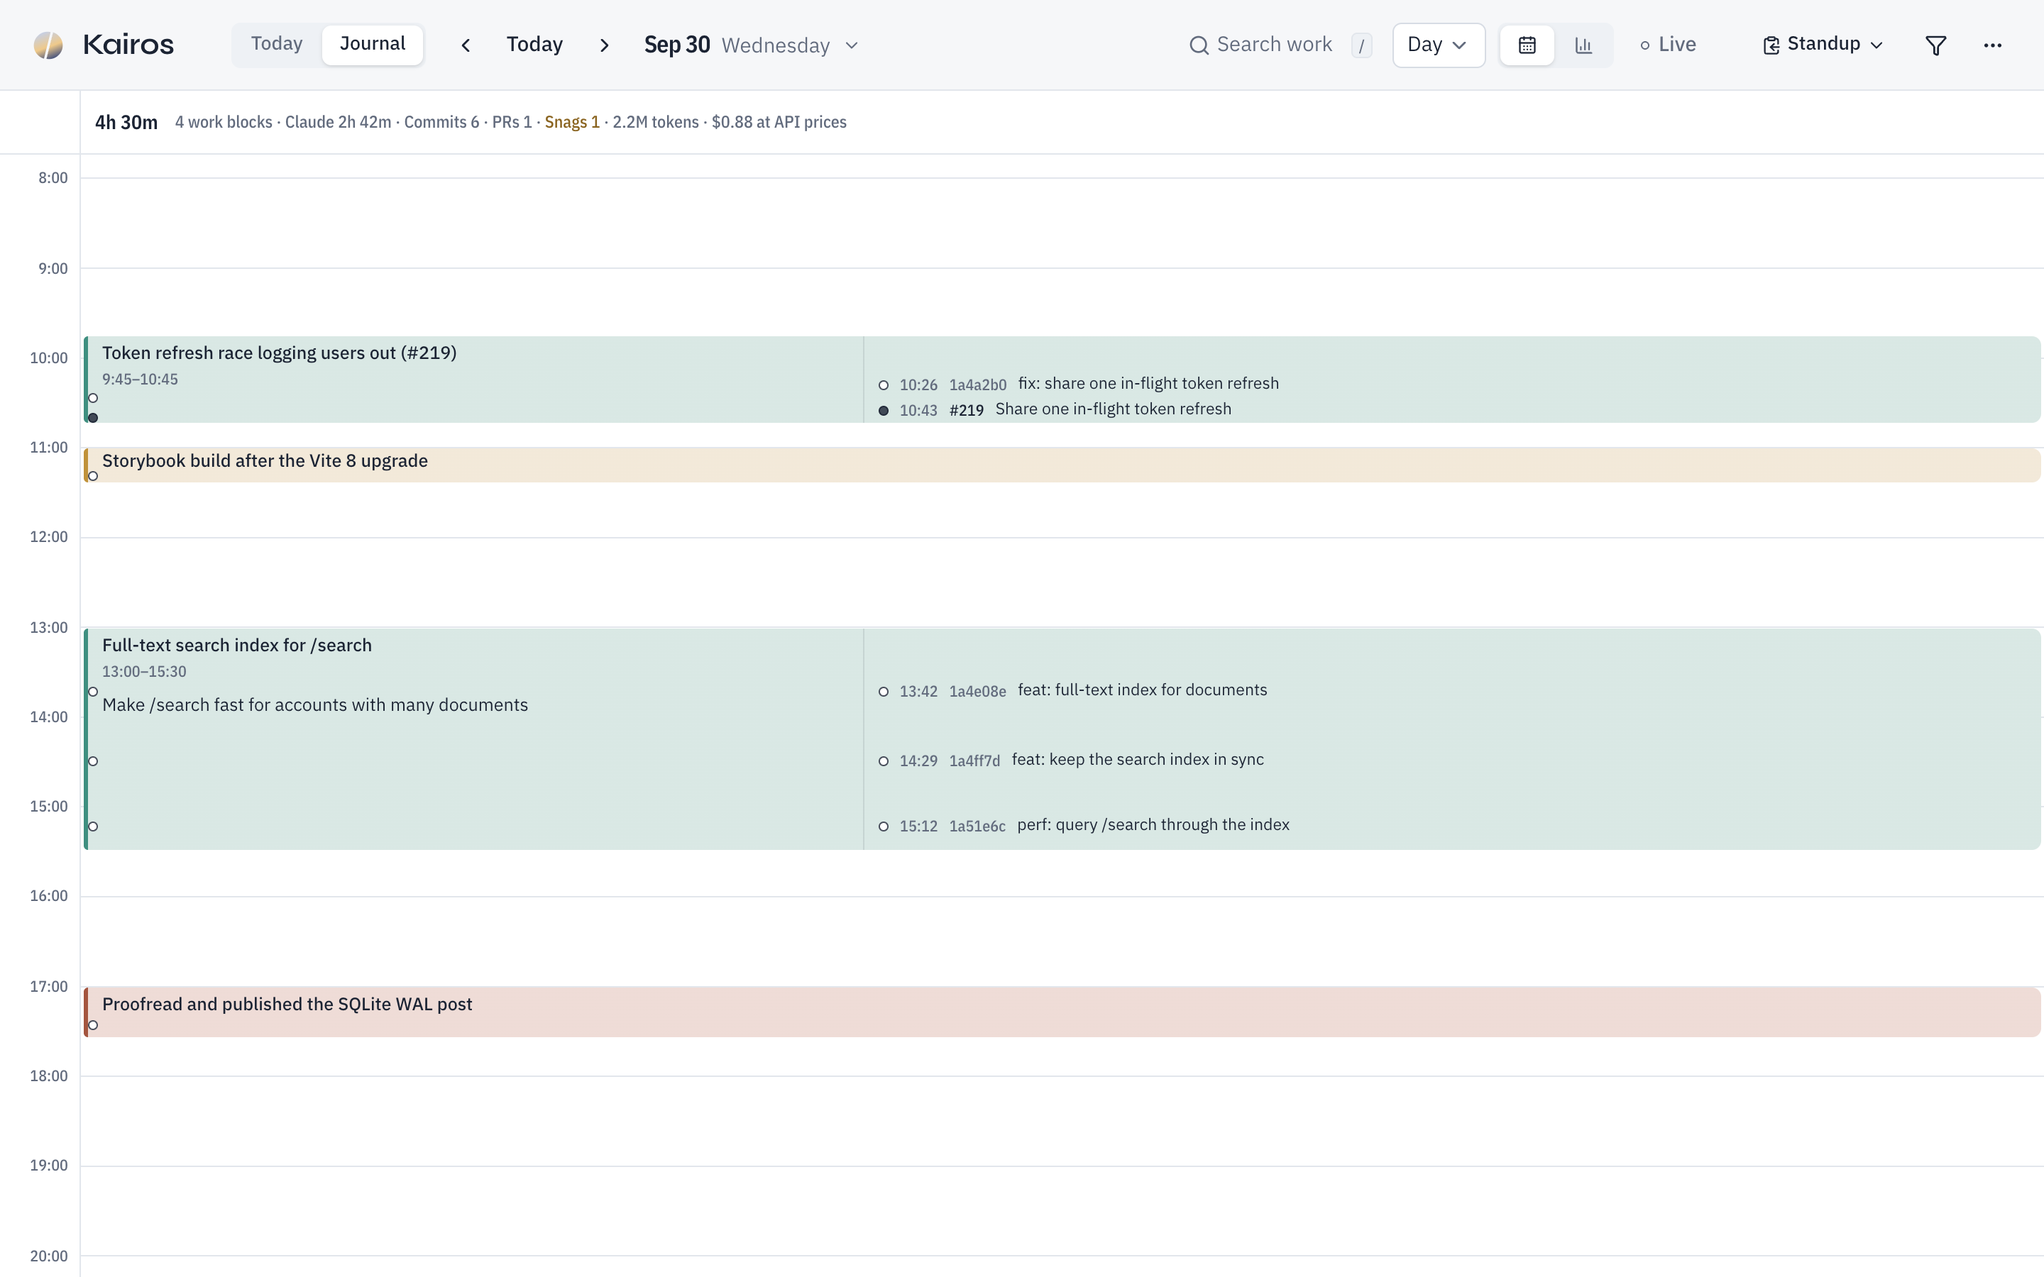
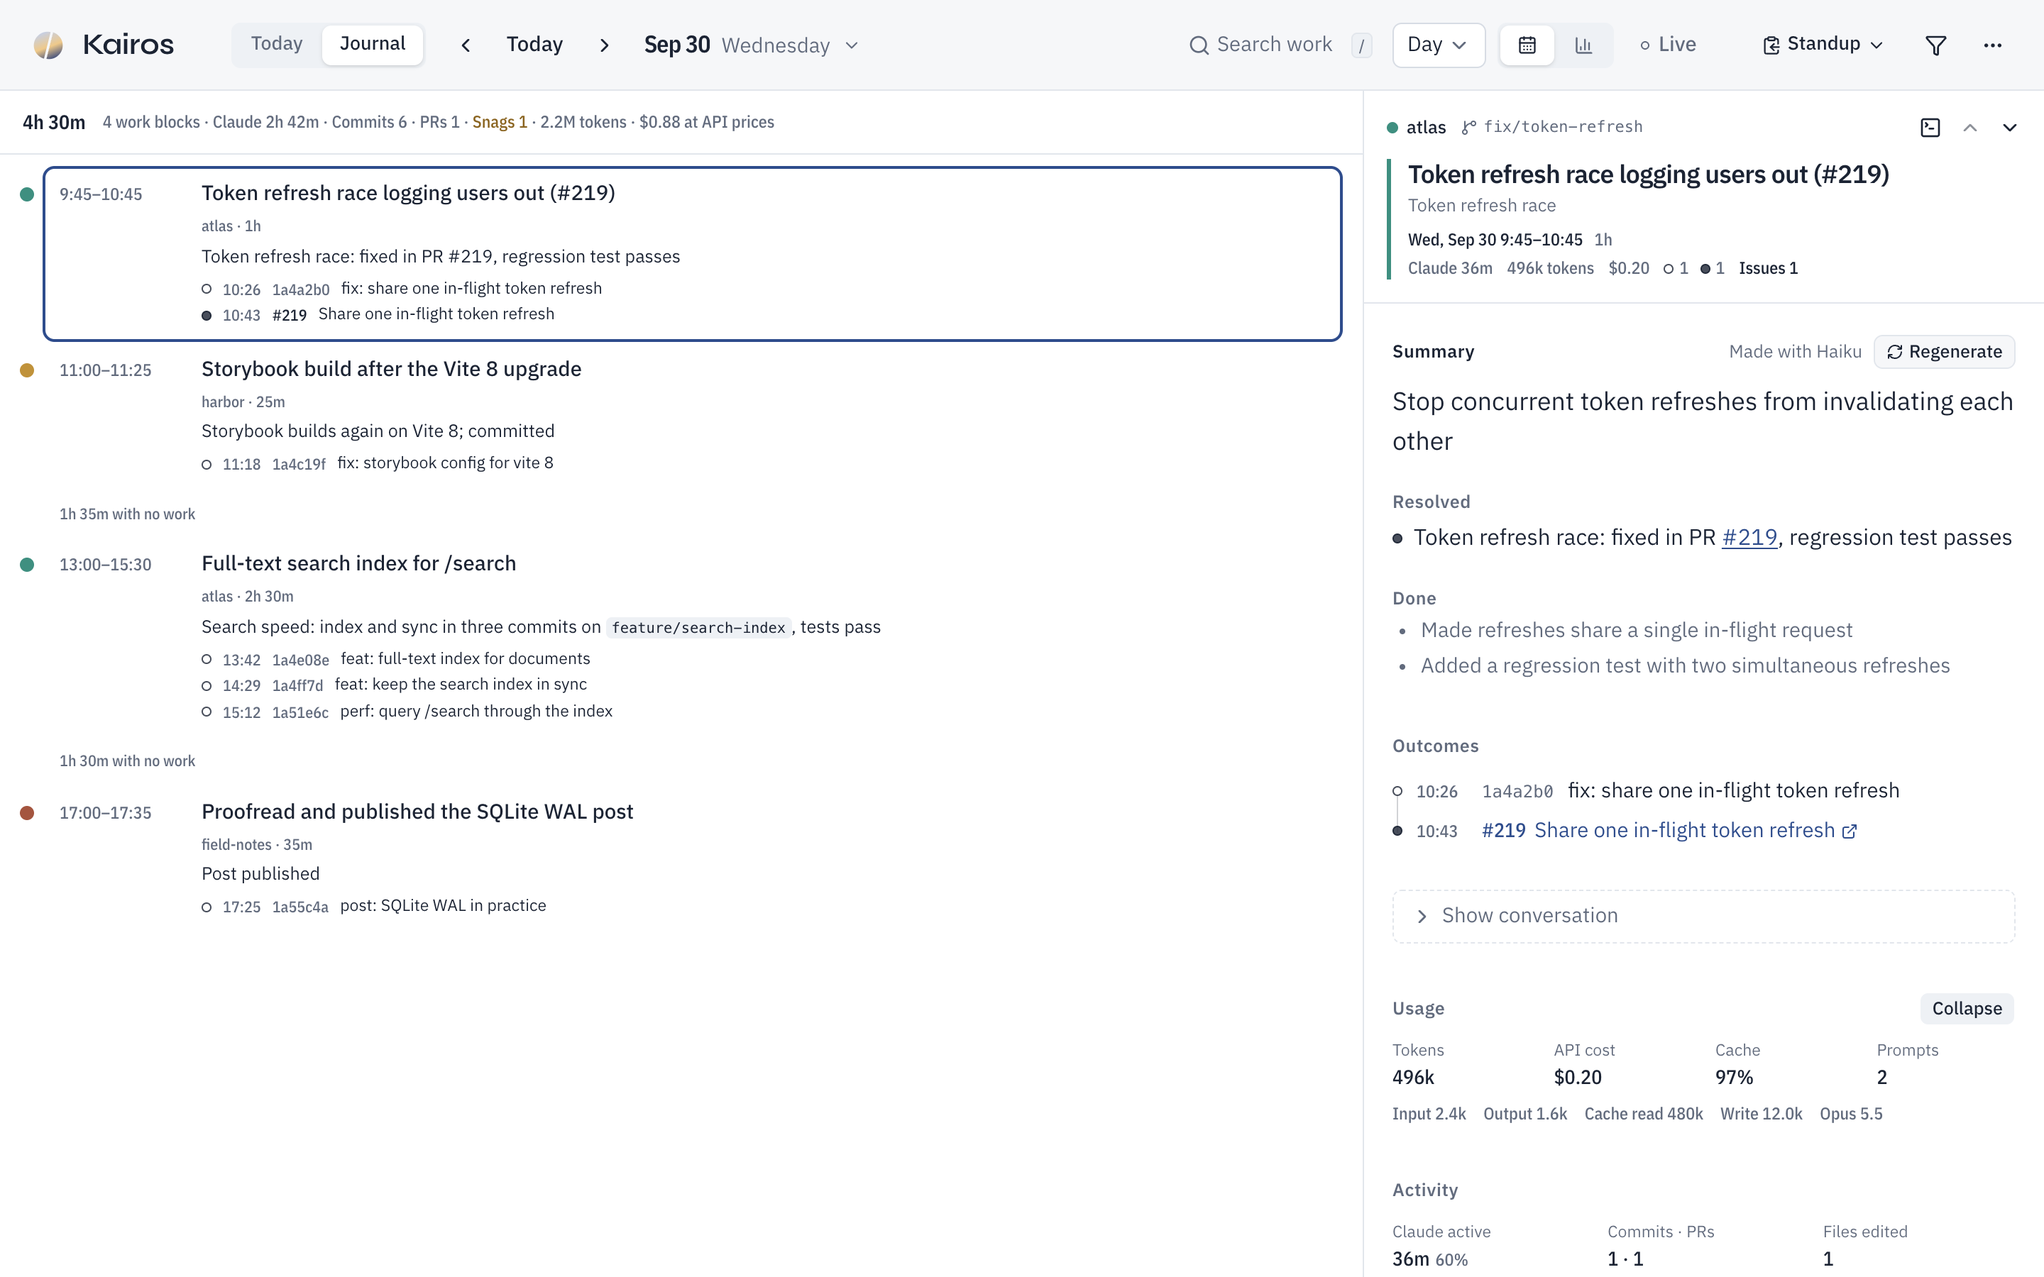
docs: the Journal's day page
Refs #60.

diff --git a/docs/design/screens.md b/docs/design/screens.md
@@ -41,7 +41,7 @@ segment names the page, so its heading is for screen readers only.
 - **Last workday:** the last day with work before today, from the summaries already written (no
   model call). The heading is followed by the day in `numeral` ("Yesterday", or its date) and,
   after a break of more than a day, "n days since the last work" in 12px `muted-ink`; a small ghost
-  button at the right, "Open the day", opens it in the day view. Then one group per project, the
+  button at the right, "Open the day", opens it in the day page. Then one group per project, the
   busiest first, laid out like the summary view's project sections: the project's 2px colored rule,
   its name in 14px medium, and a row per block in time order with the headline (14px, one line,
   truncated) and its commits and PRs as nodes (`OutcomeTally`) at the right. The whole row opens
@@ -50,7 +50,7 @@ segment names the page, so its heading is for screen readers only.
   day). The last workday is the last day that has something to list (in the four weeks before
   today; otherwise one line suggests `kairos doctor`)
 
-## Calendar (month, week and day)
+## Calendar (month and week)
 
 - **Calendar:** CSS Grid with a 56px hour column. An hour is never shorter than 48px, or headings
   of short blocks become unreadable. On open, the hour height is chosen so 8:00–20:00 fits the screen
@@ -87,15 +87,15 @@ segment names the page, so its heading is for screen readers only.
   the day. Tooltips, selection and filter fading are the week view's
 - **Day column headers** put the weekday above the date number: beside it, "5 月" reads as May in Japanese
 - **Work block:** heading (summary headline, or the first prompt before summarizing). The time
-  range in `numeral` follows when there is room, but in the week view only on the selected block
+  range in `numeral` follows on the selected block when there is room
   ([why](decisions.md#the-week-view-shows-a-time-range-only-when-selected)). The heading gives up lines to the time range rather than
   overlapping it. Unsummarized blocks use the dim fill and muted text, except the latest block of a
-  session still running, which is only waiting for its summary; the week, day, month and list views
+  session still running, which is only waiting for its summary; the week, month, day page and list
   use this one rule (`isDim` in `lib/selection.ts`), and a mark's tooltip notes it. A pulsing project-colored
   dot marks work in progress. Selected: a 2px `primary` outline over the normal fill, nothing more
   ([why](decisions.md#the-selected-block-is-only-outlined)). A headless run (`claude -p` / SDK, shown only when
   turned on in the "⋯" menu) keeps its project's color and fill but gets a dashed left edge: the
-  solid edge is the branch of work you prompted (in the week, day and month views alike; a mark
+  solid edge is the branch of work you prompted (in the week and month views alike, and as a dashed lane on the day page; a mark
   breaks into two dashes instead). The tooltip says why, and the drawer heading carries a
   "Headless" `Tag` beside the project line. Filtered-out blocks fade to 30% opacity and drop behind matching ones where they
   overlap; hover or focus brings one back in full and on top
@@ -104,15 +104,41 @@ segment names the page, so its heading is for screen readers only.
   height of the minute it was made. Nodes stay a radius inside the
   block, which clips at its border. Moments less than 10px apart (a 7px node plus a 3px gap) merge
   into one pill spanning them, 3px longer per extra moment and filled when it holds a PR, so a burst
-  of commits never reads as a single node. The day view adds a lane beside each block's text
-  (`min(38%, 24rem)`, a faint rule on its left; only on blocks at least 36rem wide with room for
-  two labels, so side-by-side and stacked blocks on a busy day fall back to the tooltip) labeling each node with its time, short SHA or PR
-  number and title; labels push apart to avoid overlapping and end in "+n more" when they run out
-  of room. The block's text keeps a 32rem measure and the lane starts right after it, so on a wide
-  screen the summary and its commits stay together instead of sitting at opposite edges (a
-  narrower block puts the lane at its right edge). The block's tooltip lists the
-  same (up to six), which is where the week view shows their titles; screen readers get them
+  of commits never reads as a single node. The block's tooltip lists each with its time, short
+  SHA or PR number and title (up to six), which is where the week view shows their titles; screen readers get them
   (up to eight) through the button's description, since the nodes are drawn for the eye only
+
+## Day page (Journal, day)
+
+The day is read, not placed: a list of the day's work beside the selected block's detail
+([why](decisions.md#the-day-is-a-list-not-a-grid)).
+
+- **Layout:** the day's figures on one line (working time 14px in `ink` and semibold, then 12px blocks,
+  Claude time, commits and PRs, snags in the warn tone, tokens and cost), then the list, scrolling
+  on its own. The drawer is the page's detail pane on the right from `lg` up: always open, on the
+  day's first block when none is chosen (or when stepping to another day), with no close button,
+  and Esc does nothing there. Below `lg` it is the usual drawer, opened by a click and closable
+- **Rows** in time order, each a card with `md` corners: the time range (`numeral`,
+  `muted-ink`, a fixed 5.5rem column), then the heading (`text-body`, medium in `ink`; regular
+  `muted-ink` when unsummarized, by the Work block rule), a meta line (project, worktree label,
+  length), the summary's first two Resolved points (12px `ink`, two lines each; an older body's
+  Outcome in their place), and the first three commits and PRs as moment labels (node, time, SHA
+  or PR number, title) with "+n more". Hover fills the card with `accent`; selected is the 2px
+  `primary` outline and nothing more. Work in progress ends with the pulsing dot. Filtered-out
+  rows fade to 30% and come back on hover or focus
+- **Lanes:** to the left of the cards, one 14px lane per session running at the same time, read
+  like a git graph: a 2px line in the project color (dashed for a headless run), a 10px node in
+  the same color on each of the session's rows, level with the heading's first line. A session's
+  line runs from its first block until its work ends, so a long block's line passes the work that
+  started while it ran, and a session's blocks hours apart stay one line. A lane is reused once
+  its session is done. Work running in from the previous day or on into the next keeps its line
+  to the list's edge
+- **Quiet stretches:** a gap of 30 minutes or more with no work is one line ("1h 35m with no
+  work", 11px `muted-ink`); the lines of sessions still going on pass through it
+- Short work and headless runs are rows like the rest; a burst of headless runs is one row ("n
+  headless runs" and its span), as it is one mark in the week view
+- `j` / `k` step through the rows (and the pane with them), and the selected row scrolls into
+  view
 
 ## Toolbar, search and filters
 
@@ -165,8 +191,8 @@ segment names the page, so its heading is for screen readers only.
 
 - **Drawer** opens from the right with 20px padding; below `lg` it overlays the screen with a backdrop.
   In the week and month calendars it also floats over the calendar (no backdrop) up to `xl`
-  ([why](decisions.md#the-drawer-floats-over-the-calendar)), and on Today too. The day view, list and
-  summary still make room for it
+  ([why](decisions.md#the-drawer-floats-over-the-calendar)), and on Today too. The list and
+  summary still make room for it, and the day page holds it as its detail pane
 - **Drawer header:** the headline in its project-colored frame, then when it happened (date and
   range in `ink`, length in `muted-ink`, no chip) and the key figures on a second line
 - **Drawer:** the selected section's summary first (its heading in `ink` rather than muted, the
@@ -186,8 +212,8 @@ segment names the page, so its heading is for screen readers only.
   A single Resolved point is shown without a bullet. Done's points are 14px `muted-ink`, each
   clamped to two lines with "Show in full" when one is cut off. Every item but the Goal gets a
   label in the drawer's small heading style. A body in neither format is shown as written. The
-  day view's block body shows only the Goal: the heading says what, the lane what came of it. A
-  block marks nothing for its open items; its tooltip counts them with their kinds ("Open 2
+  day page's rows show the first Resolved points: the heading says what, Resolved what came of
+  it. A block marks nothing for its open items; its tooltip counts them with their kinds ("Open 2
   (Question · Waiting)", kinds in a fixed order and, unlike the tags, in the UI language), and
   the filter's "Left something open" state finds them
 - **Settled from earlier (drawer):** after the summary, the earlier open items the section

diff --git a/ARCHITECTURE.md b/ARCHITECTURE.md
@@ -208,9 +208,9 @@ Request and response types live in `src/shared` and are shared by the server and
 
 ![Week view with the detail drawer](docs/images/screen-week.png)
 
-Toolbar on top, the calendar (or the summary, or the page of running sessions) below it, and the detail drawer on the right. Day view, where tall blocks also show their summary body:
+Toolbar on top, Today or the Journal below it, and the detail drawer on the right. The Journal's day page, a list of the day's work with a lane per session beside the selected block's detail:
 
-![Day view](docs/images/screen-day.png)
+![Day page](docs/images/screen-day.png)
 
 The summary layout: period totals against the previous period, time by day and by project, and per-project recaps:
 
@@ -229,7 +229,7 @@ The screenshots are taken from a fictional week (`scripts/screenshots/demo.ts`) 
 - Blocks that overlap in time are placed side by side, as in Google Calendar
 - Blocks show the summary headline. If there isn't enough height, only the headline is shown, with the full text on hover. Blocks with commits or PRs carry a small mark
 - In the week view, days running several sessions in parallel get more width. If lanes would still be too narrow (e.g. with the drawer open), the selected day and its neighbors keep their width
-- In the day view, tall blocks also show the worktree name, PR numbers and the summary body
+- The Journal's day is a list rather than a grid (`features/journal/`): each block's heading, Resolved points and commits, with the sessions laid out as git-graph lanes (`lib/dayRows.ts`) and empty stretches folded to one line. The drawer is the page's detail pane there, kept open on a block (`hooks/usePinnedDetail.ts`, from the `drawerPinned` layout trait)
 - The search field filters the shown period and, while focused, lists matching work from every period; picking one jumps there
 - The UI has two places with paths of their own: Today (`/today`) and the Journal at a day (`/journal/2026-10-01`, or `/journal` for today), whose period, layout tab, sort, search and filters are in the query (`src/web/src/lib/urlState.ts`). The server answers those paths with the app and any other unknown path with a 404. Links from before the paths (everything in the query of `/`, as the CLI wrote them) open the same thing and are rewritten to the path (`legacyUrl.ts`). The CLI builds its links with `uiLinkPath` in `src/shared/uiUrl.ts`, which the web app's parser reads back in a test
 - The drawer is synced with the URL (`?session=&at=`) and stays open across reloads
@@ -268,8 +268,8 @@ kairos/
 │   │   └── serve.ts    # wires ingest, summaries and the API together
 │   ├── shared/         # API types, constants and rules the server, CLI and web must agree on
 │   │                   #   (dates, PR refs, open items, close notes, failure kinds, UI URL params)
-│   └── web/            # React app (Vite): features/ holds one folder per screen (today, calendar,
-│                       #   insights, table, drawer, search); components/ the app shell and parts
+│   └── web/            # React app (Vite): features/ holds one folder per screen (today, journal,
+│                       #   calendar, insights, table, drawer, search); components/ the app shell and parts
 │                       #   several features share; lib/ pure logic; hooks/; i18n/ the UI messages
 ├── tests/e2e/          # behaviour tests in headless Chrome (`bun run e2e`) and the axe baseline
 ├── tests/fixtures/     # fictional jsonl logs generated by generate.ts (never copied from real logs)

diff --git a/README.md b/README.md
@@ -7,7 +7,7 @@ A personal web app that keeps the memory of your Claude Code work: what is runni
 - Ingests the logs (`~/.claude/projects/**/*.jsonl`) read-only and stores them in SQLite. Even after Claude Code deletes its logs (30 days by default), Kairos keeps them
 - Two places, switched at the top left: **Today** and the **Journal**
 - Opens on Today (`/today`): today's tokens and every session running now, those waiting on you first, what recent sessions left to pick up (a card each, with the command that resumes it), beside what the last workday was about
-- The Journal (`/journal/2026-10-01`) shows a month, a week or a day: the month lists each day's work, the week and day place it at its time
+- The Journal (`/journal/2026-10-01`) shows a month, a week or a day: the month lists each day's work, the week places it at its time, and the day lists it with the sessions that ran side by side and the selected block's detail beside it
 - Automatically summarizes each work block (section) with `claude -p` (haiku): what was asked, what got settled and what was left open, and keeps the open items until the log or you close them
 - Searches every period by summaries, prompts and replies, PR and commit titles, and branches; `file:<path>` finds the work that edited a file
 - The Journal's Insights tab: working time, PRs, commits, tokens and estimated cost against the previous period, and per-project recaps written on request
@@ -89,7 +89,7 @@ Server options (`open`, `restart`, `rebuild`, `ensure`, `serve`): `--summary-mod
 
 Changing the language (in the UI or with `--summary-lang`) doesn't rewrite existing summaries. They stay as they are, and you can regenerate any of them from the drawer.
 
-Keyboard shortcuts: `h` the Today page (or click the mark), `←` `→` previous/next period, `t` move the period to today, `m` month view, `w` week view, `d` day view, `c` calendar, `s` summary (totals, time by day and project, what was done, and recaps), `n` the sessions running now, `l` the summary as a table (one row per block with sortable numbers), `j` `k` next/previous work block, `/` search (the shown period, plus every period in the list under the field; `↓` to pick), `Esc` close details, `?` menu with theme, language and shortcuts
+Keyboard shortcuts: `h` the Today page (or click the mark), `←` `→` previous/next period, `t` move the period to today, `m` month view, `w` week view, `d` day page, `c` calendar, `s` summary (totals, time by day and project, what was done, and recaps), `n` the sessions running now, `l` the summary as a table (one row per block with sortable numbers), `j` `k` next/previous work block, `/` search (the shown period, plus every period in the list under the field; `↓` to pick), `Esc` close details, `?` menu with theme, language and shortcuts
 
 ### Updating
 

diff --git a/.claude/rules/web.md b/.claude/rules/web.md
@@ -20,7 +20,7 @@ Log text is untrusted (it may contain text copied from web pages). `src/web/src/
 ## Components
 
 - Visual design (colors, type, spacing, shared components, do's and don'ts) is in `DESIGN.md` at the repository root; each screen's layout is in `docs/design/screens.md`, and the reason for each exception in `docs/design/decisions.md`. Read them before changing how things look, and update them together with `index.css`. Check it with `npx @google/design.md lint DESIGN.md`, and review the change with the `design-reviewer` agent
-- A screen's parts live in its folder under `src/web/src/features/` (`today`, `calendar`, `insights`, `table`, `drawer`, `search`) and import each other by `./`. A feature doesn't import another feature: a part two features use moves to `components/`, and a pure function to `lib/`. `components/` holds those shared parts and the app shell (`App`'s toolbar, filters and layout body)
+- A screen's parts live in its folder under `src/web/src/features/` (`today`, `journal`, `calendar`, `insights`, `table`, `drawer`, `search`) and import each other by `./`. A feature doesn't import another feature: a part two features use moves to `components/`, and a pure function to `lib/`. `components/` holds those shared parts and the app shell (`App`'s toolbar, filters and layout body)
 - shadcn/ui primitives live in `src/web/src/components/ui/`; add new ones there rather than styling Radix directly in feature components
 - Tailwind v4 (CSS-first config in `src/web/src/index.css`, no `tailwind.config.js`). Check the latest docs with context7
 - Keyboard shortcuts are mapped in `lib/shortcuts.ts` and handled in `hooks/useKeyboardShortcuts.ts`. The "⋯" menu's list and the key hints in tooltips are derived from `SHORTCUT_GROUPS` / `keyCap` there, so add a new shortcut to the map and its group rather than to the menu

diff --git a/docs/design/decisions.md b/docs/design/decisions.md
@@ -26,6 +26,15 @@ stacked mark, and the drawer steps through them.
 The grid already places a block in time, and the tooltip and drawer give the exact range, so in the
 week view the space goes to the heading. Other views have the width to show both.
 
+## The day is a list, not a grid
+
+The day view used to be the week's time grid with one column: most of 8:00–20:00 was empty, it held
+about as much as one week column, and a busy day of 23 blocks cut headings to one line and hid which
+sessions ran side by side. The day page lists the work in time order instead, with the detail
+beside it, so a day is read without opening each block. Time is kept by the range on each row,
+the lanes (a git graph of sessions, as commits already are on a block's edge) and one line for each
+quiet stretch. The week and month keep the grid: there the question is when, not what.
+
 ## The selected block is only outlined
 
 A selected block gets a 2px `primary` outline over its normal fill. A deeper fill as well said the
